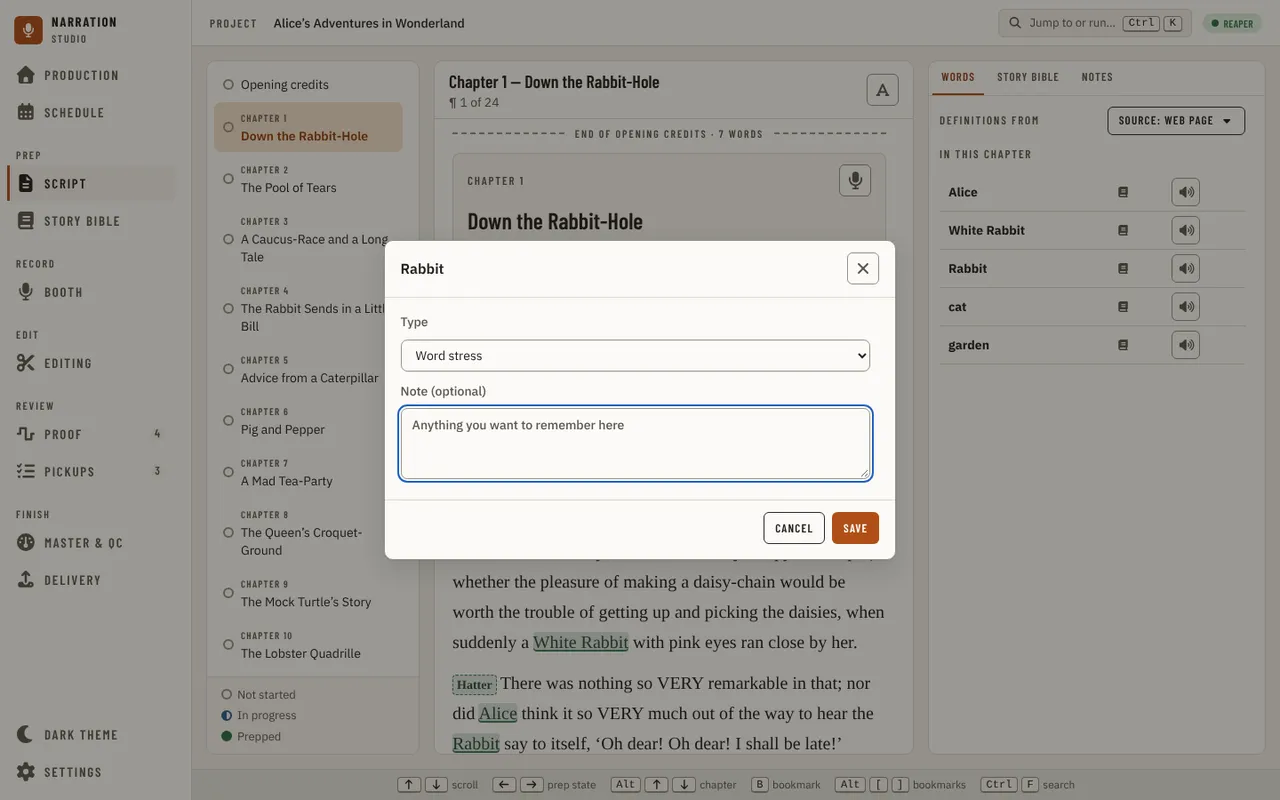
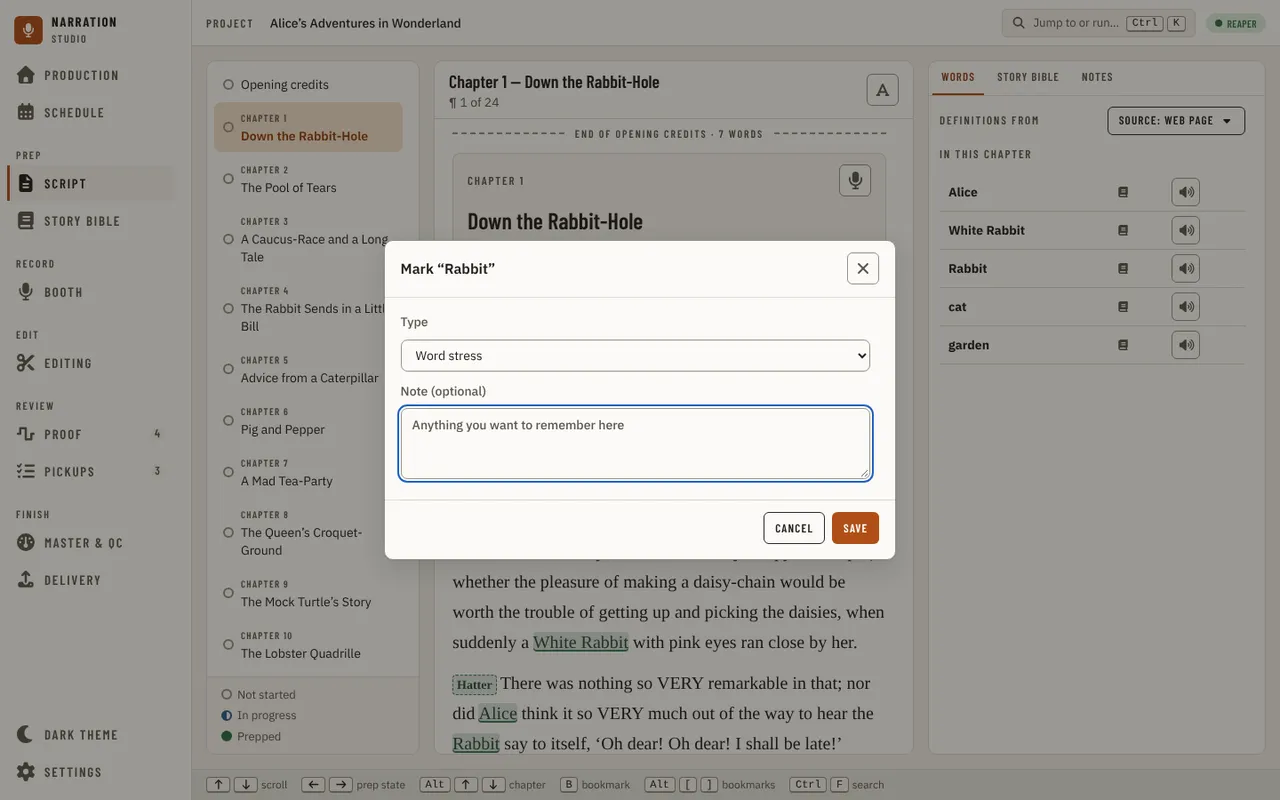
fix(script): one grid for Define marks, a labelled Add, and the composer says Mark
Define how you mark up keeps each mark on one grid under Name, Colour, Line and
Asks heads, with the remove button on the mark's first line at every width
(two lines below 640 px), and Add a mark is a labelled button. The mark composer
is titled Mark and the selected words.

Refs #2251

Claude-Session: https://claude.ai/code/session_01LLQtbvBTJKtVXH9F4c37fj

diff --git a/src/studio/ui/src/components/script/page/tools/select/MarksDialog.tsx b/src/studio/ui/src/components/script/page/tools/select/MarksDialog.tsx
@@ -4,7 +4,9 @@ import { overlay } from '../../../../../overlay/overlayService';
 import { Button } from '../../../../primitives/Button';
 import { Checkbox } from '../../../../primitives/Checkbox';
 import { Dialog } from '../../../../primitives/Dialog';
+import { Icon } from '../../../../primitives/Icon';
 import { IconButton } from '../../../../primitives/IconButton';
+import { SectionLabel } from '../../../../primitives/SectionLabel';
 import { Select } from '../../../../primitives/Select';
 import { TextField } from '../../../../primitives/TextField';
 import { useMarks } from '../../data/useScriptData';
@@ -19,12 +21,26 @@ const STYLE_LABELS: Record<MarkStyle, string> = {
   wavy: 'Wavy',
   box: 'Box',
 };
+// One grid for the column heads and every mark (the rows are subgrids of it, so the heads sit over their columns whatever the
+// Asks and remove cells hold): swatch, name, colour, line, Asks, remove. Below 640 px a mark takes two lines, swatch, name and
+// remove on the first, colour, line and Asks under the name, so remove never drops onto a line of its own.
+const GRID = 'grid gap-x-2 grid-cols-[18px_minmax(8rem,1fr)_7.5rem_8.5rem_auto_auto] max-[639px]:grid-cols-[18px_minmax(0,1fr)_minmax(0,1fr)_auto_auto]';
+const ROW_GRID = 'col-span-full grid grid-cols-subgrid items-center gap-y-2';
+const NARROW = {
+  name: 'max-[639px]:col-span-3',
+  colour: 'max-[639px]:col-start-2 max-[639px]:row-start-2',
+  line: 'max-[639px]:col-start-3 max-[639px]:row-start-2',
+  asks: 'max-[639px]:col-span-2 max-[639px]:col-start-4 max-[639px]:row-start-2',
+  remove: 'max-[639px]:col-start-5 max-[639px]:row-start-1',
+};
+const ASKS_HINT = 'Tracks a reply, like a question for the author';
 export const KEEP_ONE = 'Keep at least one mark.';
 
 export type SaveMarkTypes = (types: MarkType[], removeUses: boolean) => Promise<MarkType[] | null>;
 
 /**
- * "Define how you mark up" (the mock's `MarksDialog`): each type's name, colour, line and Asks, a remove button, and Add a mark.
+ * "Define how you mark up" (the mock's `MarksDialog`): each type's name, colour, line and Asks under named columns, a remove button,
+ * and Add a mark.
  * Every change is saved at once through `saveMarkTypes`, which answers the types as the host now has them (a new type has its
  * key) or null when the host refused. Removing a type that marks use asks once, "Remove N uses too?", then removes its marks too.
  * At least one type is kept.
@@ -66,53 +82,72 @@ export function MarksDialog({ saveMarkTypes, onClose }: { saveMarkTypes: SaveMar
 
   return (
     <Dialog dismissOnOutsidePress={true} title="Define how you mark up" onClose={onClose} actionsAlign="end" actions={<Button onClick={onClose}>Done</Button>}>
-      <ul className="m-0 flex list-none flex-col gap-2 p-0">
-        {types.map((type, index) => (
-          <li key={type.key || `new-${index}`} className="flex flex-wrap items-center gap-2">
-            <span
-              aria-hidden="true"
-              data-testid="mark-swatch"
-              className="inline-block size-[18px] shrink-0 rounded-[3px]"
-              style={{ background: `var(--${markSwatch(type.colour)})` }}
-            />
-            <div className="min-w-[10rem] flex-1">
-              <TextField
-                label="Mark name"
-                value={type.name}
-                maxLength={MARK_TYPE_NAME_MAX}
-                onChange={(name) => rename(index, name)}
-                onBlur={() => {
-                  if (type.name !== stored.find((row) => row.key === type.key)?.name) void commit(types);
-                }}
+      <div className={GRID}>
+        <div aria-hidden="true" className={`${ROW_GRID} mb-1.5 max-[639px]:hidden`}>
+          <SectionLabel className="col-start-2">Name</SectionLabel>
+          <SectionLabel>Colour</SectionLabel>
+          <SectionLabel>Line</SectionLabel>
+          <SectionLabel>Asks</SectionLabel>
+        </div>
+        <ul className={`${ROW_GRID} m-0 list-none gap-y-2 p-0`}>
+          {types.map((type, index) => (
+            <li key={type.key || `new-${index}`} className={ROW_GRID}>
+              <span
+                aria-hidden="true"
+                data-testid="mark-swatch"
+                className="inline-block size-[18px] shrink-0 rounded-[3px]"
+                style={{ background: `var(--${markSwatch(type.colour)})` }}
               />
-            </div>
-            <Select
-              label="Colour"
-              value={type.colour}
-              onChange={(colour) => void edit(index, { colour: colour as MarkColour })}
-              options={MARK_COLOURS.map((value) => ({ value, label: COLOUR_LABELS[value] }))}
-            />
-            <Select
-              label="Line"
-              value={type.style}
-              onChange={(style) => void edit(index, { style: style as MarkStyle })}
-              options={MARK_STYLES.map((value) => ({ value, label: STYLE_LABELS[value] }))}
-            />
-            <Checkbox checked={type.asks} onChange={(asks) => void edit(index, { asks })}>
-              Asks
-            </Checkbox>
-            {sure === type.key ? (
-              <Button variant="danger" size="sm" onClick={() => remove(type)}>
-                {`Remove ${used(type.key)} uses too?`}
-              </Button>
-            ) : (
-              <IconButton action="delete" label="Remove" variant="danger" onClick={() => remove(type)} />
-            )}
-          </li>
-        ))}
-      </ul>
+              <div className={`min-w-0 ${NARROW.name}`}>
+                <TextField
+                  label="Mark name"
+                  value={type.name}
+                  maxLength={MARK_TYPE_NAME_MAX}
+                  onChange={(name) => rename(index, name)}
+                  onBlur={() => {
+                    if (type.name !== stored.find((row) => row.key === type.key)?.name) void commit(types);
+                  }}
+                />
+              </div>
+              <Select
+                label="Colour"
+                fullWidth
+                className={NARROW.colour}
+                value={type.colour}
+                onChange={(colour) => void edit(index, { colour: colour as MarkColour })}
+                options={MARK_COLOURS.map((value) => ({ value, label: COLOUR_LABELS[value] }))}
+              />
+              <Select
+                label="Line"
+                fullWidth
+                className={NARROW.line}
+                value={type.style}
+                onChange={(style) => void edit(index, { style: style as MarkStyle })}
+                options={MARK_STYLES.map((value) => ({ value, label: STYLE_LABELS[value] }))}
+              />
+              <div className={NARROW.asks} title={ASKS_HINT}>
+                <Checkbox checked={type.asks} onChange={(asks) => void edit(index, { asks })}>
+                  Asks
+                </Checkbox>
+              </div>
+              <div className={`justify-self-end ${NARROW.remove}`}>
+                {sure === type.key ? (
+                  <Button variant="danger" size="sm" onClick={() => remove(type)}>
+                    {`Remove ${used(type.key)} uses too?`}
+                  </Button>
+                ) : (
+                  <IconButton action="delete" label="Remove" variant="danger" onClick={() => remove(type)} />
+                )}
+              </div>
+            </li>
+          ))}
+        </ul>
+      </div>
       <div className="mt-3">
-        <IconButton action="addMark" onClick={() => void commit([...types, { key: '', name: 'New mark', colour: 'bad', style: 'box', asks: false }])} />
+        <Button variant="secondary" onClick={() => void commit([...types, { key: '', name: 'New mark', colour: 'bad', style: 'box', asks: false }])}>
+          <Icon name="addMark" />
+          Add a mark
+        </Button>
       </div>
     </Dialog>
   );

diff --git a/src/studio/ui/tests/visual/script-marks.spec.ts b/src/studio/ui/tests/visual/script-marks.spec.ts
@@ -1,0 +1,66 @@
+// The Script's two mark dialogs (#2251, alignment audit docs/research/alignment-audit/findings/script.md XSC-2, XSC-3, XSC-37 and
+// settings.md XSE1-11, R3SE1-3): "Define how you mark up" keeps each mark on one grid with its delete button in the mark's first row
+// at every width, its controls one height, its columns named and its Add button labelled; the composer's title says what it does.
+import { expect, test, type Page } from '@playwright/test';
+import { scriptDrivers } from './drivers/script';
+import { settlePage } from './helpers/settle';
+
+async function drive(page: Page, state: string, size: { width: number; height: number }): Promise<void> {
+  await page.setViewportSize(size);
+  await page.goto('/');
+  await settlePage(page);
+  const driver = scriptDrivers[state];
+  if (!driver) throw new Error(`no script driver for ${state}`);
+  await driver(page);
+}
+
+for (const size of [
+  { width: 1440, height: 900 },
+  { width: 768, height: 1024 },
+  { width: 390, height: 844 },
+]) {
+  test(`define-marks at ${size.width}: each mark's controls share one row grid and one height`, async ({ page }) => {
+    await drive(page, 'define-marks', size);
+    const dialog = page.getByRole('dialog', { name: 'Define how you mark up' });
+    const rows = await dialog.locator('li').evaluateAll((items) =>
+      items.map((li) => {
+        const box = (sel: string) => li.querySelector(sel)!.getBoundingClientRect();
+        const name = box('input[aria-label="Mark name"]');
+        const colour = box('select[aria-label="Colour"]');
+        const line = box('select[aria-label="Line"]');
+        const remove = box('button[aria-label="Remove"]');
+        return {
+          nameTop: Math.round(name.top),
+          removeTop: Math.round(remove.top),
+          nameLeft: Math.round(name.left),
+          colourLeft: Math.round(colour.left),
+          heights: [name.height, colour.height, line.height, remove.height].map(Math.round),
+          oneLine: Math.round(colour.top) === Math.round(name.top),
+        };
+      }),
+    );
+    expect(rows.length, 'the six marks are listed').toBeGreaterThan(1);
+    for (const row of rows) {
+      // XSE1-11 / XSC-2: the delete button is never on a line of its own.
+      expect.soft(row.removeTop, 'delete sits on the name row').toBe(row.nameTop);
+      // R3SE1-3 / XSC-3: one control height in the row.
+      expect.soft(new Set(row.heights).size, `one control height (${row.heights.join(', ')})`).toBe(1);
+      // A second line starts under the name, not under the swatch (XSE1-11 at 390).
+      if (!row.oneLine) expect.soft(row.colourLeft, 'the second line starts under the name').toBe(row.nameLeft);
+    }
+    expect.soft(new Set(rows.map((row) => row.oneLine)).size, 'every mark has the same layout').toBe(1);
+    if (size.width >= 768) {
+      expect.soft(rows[0]!.oneLine, 'one line per mark at this width').toBe(true);
+      // XSC-3: the columns say what they hold.
+      for (const head of ['Name', 'Colour', 'Line', 'Asks']) await expect.soft(dialog.getByText(head, { exact: true }).first()).toBeVisible();
+    }
+    // XSC-3: Add says what it adds.
+    await expect.soft(dialog.getByRole('button', { name: 'Add a mark' })).toHaveText(/Add a mark/);
+  });
+
+  // XSC-37: the composer's title says it marks the words, not just the words.
+  test(`mark-composer at ${size.width}: the title names the action`, async ({ page }) => {
+    await drive(page, 'mark-composer', size);
+    await expect(page.getByRole('dialog')).toHaveAccessibleName(/^Mark “Rabbit”$/);
+  });
+}

diff --git a/src/studio/ui/src/components/script/page/tools/select/MarkComposer.test.tsx b/src/studio/ui/src/components/script/page/tools/select/MarkComposer.test.tsx
@@ -56,17 +56,17 @@ async function open(type: string) {
 }
 
 describe('composer-creates-a-note-with-its-text', () => {
-  it('is titled with the selected words, shortened at 60', () => {
-    expect(composerTitle('Alice')).toBe('Alice');
-    expect(composerTitle('a'.repeat(60))).toBe('a'.repeat(60));
-    expect(composerTitle('a'.repeat(61))).toBe(`${'a'.repeat(60)}…`);
+  it('is titled Mark and the selected words, shortened at 60', () => {
+    expect(composerTitle('Alice')).toBe('Mark “Alice”');
+    expect(composerTitle('a'.repeat(60))).toBe(`Mark “${'a'.repeat(60)}”`);
+    expect(composerTitle('a'.repeat(61))).toBe(`Mark “${'a'.repeat(60)}…”`);
   });
 
   it('saves the note once with its text, opens the Notes tab on it and closes', async () => {
     const add = vi.spyOn(api, 'marksAdd');
     const { onClose, dialog } = await open('stress');
     expect(dialog.getAttribute('aria-labelledby')).toBeTruthy();
-    expect(within(dialog).getByRole('heading', { name: 'Alice' })).toBeTruthy();
+    expect(within(dialog).getByRole('heading', { name: 'Mark “Alice”' })).toBeTruthy();
     await userEvent.type(within(dialog).getByLabelText('Note (optional)'), 'lean on this');
     await userEvent.click(within(dialog).getByRole('button', { name: 'Save' }));
     await waitFor(() => expect(onClose).toHaveBeenCalledTimes(1));
@@ -104,7 +104,7 @@ describe('a-query-needs-its-question', () => {
 describe('focus-and-aria (composer)', () => {
   it('is a named dialog and gives focus back to its opener on Cancel', async () => {
     const { onClose } = await open('stress');
-    expect(screen.getByRole('dialog', { name: 'Alice' })).toBeTruthy();
+    expect(screen.getByRole('dialog', { name: 'Mark “Alice”' })).toBeTruthy();
     await userEvent.click(screen.getByRole('button', { name: 'Cancel' }));
     expect(onClose).toHaveBeenCalled();
     await waitFor(() => expect(document.activeElement).toBe(screen.getByRole('button', { name: 'Mark it' })));

diff --git a/src/studio/ui/src/components/script/page/tools/select/MarkComposer.tsx b/src/studio/ui/src/components/script/page/tools/select/MarkComposer.tsx
@@ -2,15 +2,15 @@ import { useState } from 'react';
 import { useMarks, useScriptCommands, useScriptView } from '../../data/useScriptData';
 import { Button } from '../../../../primitives/Button';
 import { Dialog } from '../../../../primitives/Dialog';
-import { Field } from '../../../../primitives/Field';
+import { FIELD_LABEL_CLASSES, Field } from '../../../../primitives/Field';
 import { Select } from '../../../../primitives/Select';
 import type { ReaderSelection } from '../../registry/contextProvider';
 
 const TITLE_SHOWN = 60;
 export const QUERY_NEEDED = 'Write the question first.';
 
-/** The selected words as the dialog's title, shortened with an ellipsis past 60 characters. */
-export const composerTitle = (quote: string): string => (quote.length > TITLE_SHOWN ? `${quote.slice(0, TITLE_SHOWN)}…` : quote);
+/** The dialog's title: Mark and the selected words, quoted and shortened with an ellipsis past 60 characters (the mock's "Mark" eyebrow over the words). */
+export const composerTitle = (quote: string): string => `Mark “${quote.length > TITLE_SHOWN ? `${quote.slice(0, TITLE_SHOWN)}…` : quote}”`;
 
 /**
  * One composer for every kind of mark (the mock's `Composer`): pick a type, add a note if you want one. A type that asks needs
@@ -60,7 +60,7 @@ export function MarkComposer({ type, selection, onClose }: { type: string; selec
     >
       <div className="flex flex-col gap-3">
         <div>
-          <label className="block text-[0.88rem] font-medium text-[var(--text-muted)]" htmlFor="mark-type">
+          <label className={FIELD_LABEL_CLASSES} htmlFor="mark-type">
             Type
           </label>
           <div className="mt-2">

diff --git a/src/studio/ui/src/components/script/page/tools/select/MarkComposer.stories.tsx b/src/studio/ui/src/components/script/page/tools/select/MarkComposer.stories.tsx
@@ -29,7 +29,7 @@ type Story = StoryObj<typeof meta>;
 
 export const Note: Story = {
   play: async ({ canvasElement }) => {
-    const dialog = await within(canvasElement.ownerDocument.body).findByRole('dialog', { name: 'tired' });
+    const dialog = await within(canvasElement.ownerDocument.body).findByRole('dialog', { name: 'Mark “tired”' });
     await expect(within(dialog).getByLabelText('Note (optional)')).toBeVisible();
   },
 };
@@ -37,7 +37,7 @@ export const Note: Story = {
 export const Query: Story = {
   args: { type: 'ask' },
   play: async ({ canvasElement }) => {
-    const dialog = await within(canvasElement.ownerDocument.body).findByRole('dialog', { name: 'tired' });
+    const dialog = await within(canvasElement.ownerDocument.body).findByRole('dialog', { name: 'Mark “tired”' });
     // The types arrive from the host after the first paint; only then does the field ask for a query.
     await within(dialog).findByLabelText('Your question');
     await userEvent.click(within(dialog).getByRole('button', { name: 'Save' }));
@@ -48,6 +48,6 @@ export const Query: Story = {
 export const LongSelectionIsShortened: Story = {
   args: { selection: { ...SELECTION, quote: 'It was the best of times, it was the worst of times, it was the age of wisdom' } },
   play: async ({ canvasElement }) => {
-    await expect(await within(canvasElement.ownerDocument.body).findByRole('dialog', { name: /…$/ })).toBeVisible();
+    await expect(await within(canvasElement.ownerDocument.body).findByRole('dialog', { name: /…”$/ })).toBeVisible();
   },
 };

diff --git a/src/studio/ui/tests/aria/dialogs.spec.ts b/src/studio/ui/tests/aria/dialogs.spec.ts
@@ -8,7 +8,7 @@ import { DESKTOP, openApp } from './helpers';
 // not fail the suite but a lost role, name, heading or button does.
 const MODALS: { name: string; state: [string, string]; snapshot: string }[] = [
   {
-    name: 'the Script mark composer is a modal dialog named for the selected words, with the mark type, the note and Save',
+    name: 'the Script mark composer is a modal dialog named Mark and the selected words, with the mark type, the note and Save',
     state: ['script', 'mark-composer'],
     snapshot: 'dialog-mark-composer.aria.yml',
   },

diff --git a/docs/design/design-system.md b/docs/design/design-system.md
@@ -264,6 +264,11 @@ The Booth fills the window with no app shell, so it brings the shell's page gutt
 
 In the Booth's speaker picker a row with no voice sample keeps the play button's room, so "no sample" and "1 sample" end at one x, and the search box carries the placeholder "Search speakers" (alignment audit XBO-8). The Levels popover's sections (Input, Microphone, Levels, Punch) each start with the same capitals label, 6 px above their controls and 16 px apart; a slider's own label (Input level, Monitor level) is the sentence-case control label under its section (XBO-21).
 
+## The Script page
+
+- **Define how you mark up** is one grid: the column heads Name, Colour, Line and Asks over subgrid rows, every control `--control-height`, and a labelled **Add a mark** button rather than a bare `+` (alignment audit XSC-3, R3SE1-3). Below 640 px a mark takes two lines, swatch, name and remove on the first and colour, line and Asks under the name, so the remove button never sits on a line of its own (XSE1-11, XSC-2). The mock has no column heads and an icon-only add button (`pages/script/dialogs.tsx`); this supersedes those two lines.
+- The mark composer is titled **Mark “…”** with the selected words, the mock's "Mark" eyebrow folded into the title because `Dialog` draws no eyebrow (XSC-37).
+
 ## Motion
 
 See [`motion-and-animation.md`](motion-and-animation.md). Every transition and animation is a `motion-ok:` utility timed by a `--motion-*` and `--ease-*` token in `styles.css`; `motion-ok:` stops under Windows reduced motion and under `<html data-motion="reduce">`, which the Settings **Motion** row sets, and `src/studio/ui/src/motion.test.ts` fails on anything else. `components.css` declares none (`src/studio/ui/src/legacyCss.test.ts`), because a legacy rule beats a utility in the same layer. Popovers and menus share one enter and exit (`primitives/overlayMotion.ts`); dialogs appear at once. What an action changed fades from `--accent-soft` once, and a failure arriving fades in once (`primitives/changeHighlight.ts`). The named keyframes are `work-progress-slide`, `tooltip-in`, `toast-in`, `change-highlight`, `arrive` and `settings-saved`, the per-row "Saved" fade on the Settings page, which leaves the word readable without motion.

diff --git a/docs/guides/using-the-app/script.md b/docs/guides/using-the-app/script.md
@@ -73,7 +73,8 @@ Select words in the reader and a dark toolbar appears over them:
 
 - **Mark** puts one of your marks on them, with a note (a question for the author is a note you can reply to), marks a word for its
   pronunciation (**Pronunciation (a word)**), or opens **Define marks…**, where you name your marks and choose each
-  one's colour and line.
+  one's colour, its line and whether it **Asks** (tracks a reply), and **Add a mark** adds one. The note dialog is titled
+  **Mark** and the words you selected.
 - **Story Bible** makes a new entry of the kind you choose from the words; the kinds are the Story Bible's own types,
   including any you added there.
 - **Bookmark here** (the bookmark button).
